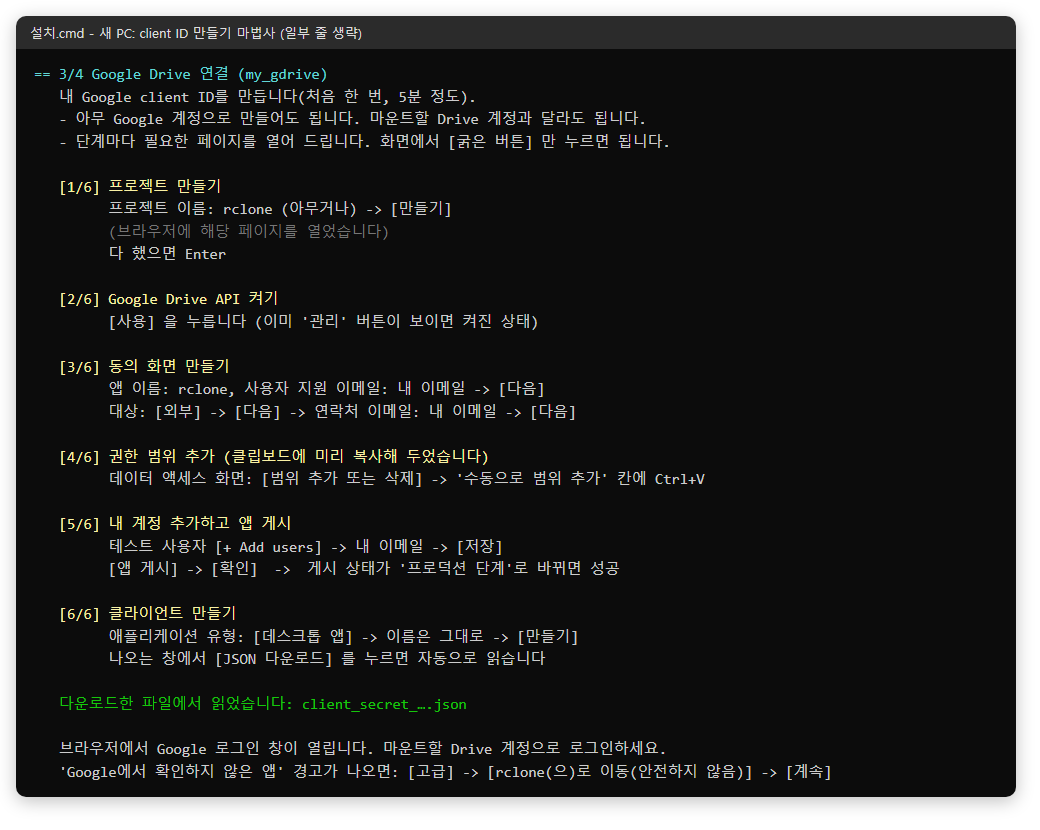
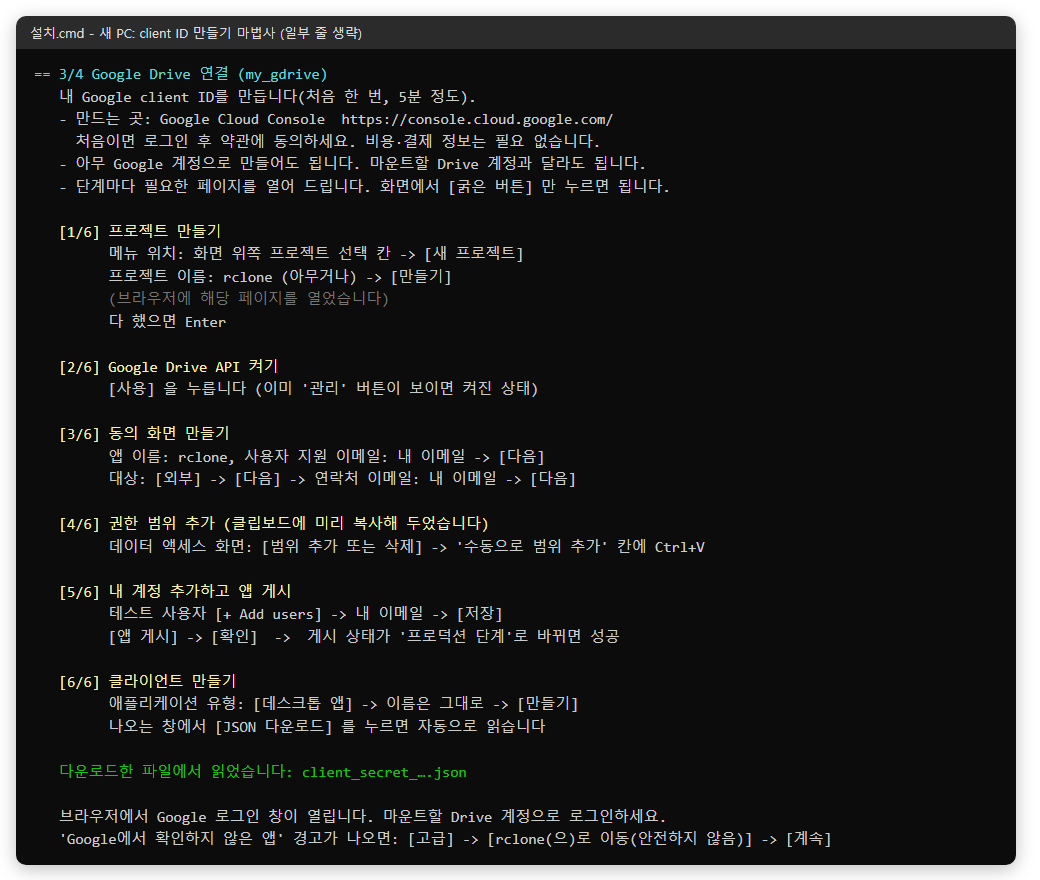
client ID 만드는 곳(Google Cloud Console)과 단계별 메뉴 위치 안내 추가

Changed region(s): [[0.0, 0.0301, 0.9846, 0.994]]

diff --git a/README.md b/README.md
@@ -101,16 +101,27 @@ Google Drive for desktop(G:)과 같은 Drive를 쓰면서도 **큰 파일을 처
 - **범위 미리 복사**: 4단계에서 넣을 권한 범위 문자열을 클립보드에 미리 복사해 둡니다. 붙여 넣기(Ctrl+V)만 하면 됩니다.
 - **ID 자동 읽기**: 마지막에 **JSON 다운로드**를 누르면 다운로드 폴더의 `client_secret_*.json`을 자동으로 읽습니다. ID와 비밀을 복사해 붙여 넣을 필요가 없습니다.
 
+### 어디서 만드나요?
+client ID는 **Google Cloud Console**에서 만듭니다.
+
+1. 브라우저에서 **<https://console.cloud.google.com/>** 에 접속해 Google 계정으로 로그인합니다.
+2. 처음 접속하면 국가 선택과 서비스 약관 동의 화면이 나옵니다. 동의하고 넘어가면 됩니다. client ID를 만드는 데는 비용이 들지 않고 결제 정보도 필요 없습니다.
+3. 필요한 메뉴는 모두 왼쪽 위 **≡(메뉴)** 안에 있습니다. 화면 위쪽 검색창에 메뉴 이름을 입력해 찾아도 됩니다.
+   - **API 및 서비스** → **라이브러리**: Drive API를 켜는 곳
+   - **Google 인증 플랫폼**(영문 화면은 Google Auth Platform): 동의 화면(개요·브랜딩), **대상**, **데이터 액세스**, **클라이언트**가 모두 여기에 있습니다.
+
+`설치.cmd` 마법사는 각 단계의 페이지를 자동으로 열어 주므로 보통은 메뉴를 찾을 필요가 없습니다. 페이지가 안 열리거나 다른 프로젝트가 선택돼 있으면 아래 표의 **메뉴 위치**를 따라 들어가세요.
+
 > 💡 client ID는 **아무 Google 계정**으로 만들어도 됩니다. 마운트할 Drive 계정과 달라도 됩니다. 한 번 만들면 다른 PC에서도 그대로 씁니다.
 
-| 단계 | 열리는 페이지 | 할 일 |
-|---|---|---|
-| 1. 프로젝트 만들기 | [새 프로젝트](https://console.cloud.google.com/projectcreate) | 이름 `rclone`(아무거나) → **만들기**. 화면 위쪽에 그 프로젝트가 선택됐는지 확인 |
-| 2. Drive API 켜기 | [Google Drive API](https://console.cloud.google.com/apis/library/drive.googleapis.com) | **사용** (이미 "관리"가 보이면 켜진 상태) |
-| 3. 동의 화면 | [Google 인증 플랫폼 시작](https://console.cloud.google.com/auth/overview/create) | 앱 이름 `rclone`, 지원 이메일 → 대상 **외부** → 연락처 이메일 → 약관 동의 → **만들기** |
-| 4. 권한 범위 | [데이터 액세스](https://console.cloud.google.com/auth/scopes) | **범위 추가 또는 삭제** → 아래쪽 "수동으로 범위 추가" 칸에 **Ctrl+V** → **표에 추가** → **업데이트** → 맨 아래 **저장** |
-| 5. 게시 | [대상](https://console.cloud.google.com/auth/audience) | 테스트 사용자 **+ Add users**에 내 이메일 → **저장**, 그다음 **앱 게시** → **확인** |
-| 6. 클라이언트 | [클라이언트 만들기](https://console.cloud.google.com/auth/clients/create) | 유형 **데스크톱 앱** → **만들기** → **JSON 다운로드** |
+| 단계 | 메뉴 위치 (≡ 메뉴 기준) | 바로 가기 | 할 일 |
+|---|---|---|---|
+| 1. 프로젝트 만들기 | 화면 위쪽 프로젝트 선택 칸 → **새 프로젝트** | [열기](https://console.cloud.google.com/projectcreate) | 이름 `rclone`(아무거나) → **만들기**. 만든 뒤 위쪽 칸에 그 프로젝트가 선택됐는지 확인 |
+| 2. Drive API 켜기 | API 및 서비스 → 라이브러리 → "Google Drive API" 검색 | [열기](https://console.cloud.google.com/apis/library/drive.googleapis.com) | **사용** (이미 "관리"가 보이면 켜진 상태) |
+| 3. 동의 화면 | Google 인증 플랫폼 → 개요 → **시작하기** | [열기](https://console.cloud.google.com/auth/overview/create) | 앱 이름 `rclone`, 지원 이메일 → 대상 **외부** → 연락처 이메일 → 약관 동의 → **만들기** |
+| 4. 권한 범위 | Google 인증 플랫폼 → **데이터 액세스** | [열기](https://console.cloud.google.com/auth/scopes) | **범위 추가 또는 삭제** → 아래쪽 "수동으로 범위 추가" 칸에 **Ctrl+V** → **표에 추가** → **업데이트** → 맨 아래 **저장** |
+| 5. 게시 | Google 인증 플랫폼 → **대상** | [열기](https://console.cloud.google.com/auth/audience) | 테스트 사용자 **+ Add users**에 내 이메일 → **저장**, 그다음 **앱 게시** → **확인** |
+| 6. 클라이언트 | Google 인증 플랫폼 → **클라이언트** → **클라이언트 만들기** | [열기](https://console.cloud.google.com/auth/clients/create) | 유형 **데스크톱 앱** → **만들기** → **JSON 다운로드** |
 
 4단계에서 클립보드에 복사되는 값은 rclone 문서가 권장하는 범위 세 개입니다.
 ```
